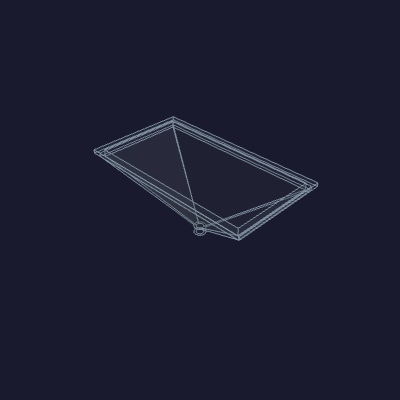
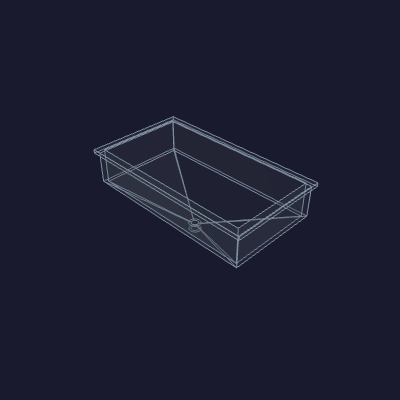
hopper-funnel: offset the neck −6 mm in X, deepen the straight chute to 30 mm
Two shape changes, brim and neck z held:

* The ramp foot and spout shift −6 mm in X (neck_dx), off the opening centre,
  so the ramp lofts asymmetrically from the centred mouth to an offset spout.
* The straight rectangular chute grows from 6 mm to 30 mm (chute_h): the brim
  top stays put while the ramp start drops to z=268.4, so a tall vertical-walled
  chute carries most of the depth and a shallow ramp necks the last bit down to
  the spout. Clears all placed content.

diff --git a/hardware/printed-parts/zone-c/hopper-funnel/hopper_funnel.py b/hardware/printed-parts/zone-c/hopper-funnel/hopper_funnel.py
@@ -1,17 +1,15 @@
 """Zone C hopper funnel — the removable dishwasher-safe silicone insert.
 
-A shallow wide funnel that drops into the top-wall opening to the right of the
-display (cut by ../../enclosure/enclosure/enclosure.py via `_hopper_hole`). Top
-to bottom:
+A wide funnel that drops into the top-wall opening to the right of the display
+(cut by ../../enclosure/enclosure/enclosure.py via `_hopper_hole`). Top to bottom:
 
   * a flat brim that overhangs the opening all around and rests on the enclosure
     top surface;
-  * a straight rectangular collar — vertical walls, no slope — that press-fits
-    into the opening, filling the 3 mm top wall;
-  * a ramp from that rectangular mouth down to a 1/4" round spout that hangs into
-    the Zone C funnel reserve, stopping one mm clear of the tallest content below
-    (the bib-gate tray) — so the drop is exactly the room the current packing
-    leaves.
+  * a tall straight rectangular chute — vertical walls, no slope — pressing the
+    3 mm top wall at its top and hanging on down into the reserve;
+  * a shallow ramp from the bottom of that chute down to a 1/4" round spout. The
+    spout is offset in −X and necks one mm above the tallest content below (the
+    bib-gate tray, read live), then a short straight tube carries the exit on down.
 
 The funnel shares the opening rectangle with the enclosure, so the collar always
 matches the hole. It is built in enclosure world coordinates (+X right, +Y back,
@@ -37,6 +35,8 @@ import enclosure as E
 brim_overhang = 3.0     # brim flange reach past the opening, all around
 brim_thickness = 3.0    # flange thickness, resting on the enclosure top
 collar_wall = 3.0       # straight press-fit collar wall (opening − bore)
+chute_h = 30.0          # straight rectangular chute height — brim top down to the ramp start
+neck_dx = -6.0          # neck (ramp foot + spout) shift in X off the opening center
 spout_id = 6.35         # 1/4" outlet bore
 spout_wall = 2.0        # spout wall at the tip
 spout_tube = 6.0       # straight spout tube below the ramp tip — its length sets
@@ -92,25 +92,27 @@ def build():
     bore_w, bore_d = w - 2.0 * collar_wall, d - 2.0 * collar_wall
     top_z = oz1 + brim_thickness                       # brim top = outermost point
     spout_or = spout_id / 2.0 + spout_wall
+    ncx = cx + neck_dx                                  # spout/neck, shifted in X
+    ramp_top_z = top_z - chute_h                        # straight chute bottom = ramp start
 
     # The ramp necks to the round spout one mm above the bib-gate tray (read live);
-    # a straight spout tube then carries the Ø6.35 exit straight down the clear
-    # column, centered on the opening.
+    # a straight spout tube then carries the Ø6.35 exit straight down past the neck.
     neck_z = _content_top(x0, x1, y0, y1) - 5
     end_z = neck_z - spout_tube
 
-    # Outer: brim flange, straight collar, ramp to the spout, straight spout tube.
+    # Outer: brim flange, a tall straight rectangular chute, a shallow ramp down to
+    # the −X-offset spout, straight spout tube.
     solid = (
         _box(w + 2.0 * brim_overhang, d + 2.0 * brim_overhang, oz1, top_z, cx, cy)
-        .fuse(_box(w, d, iz1, oz1, cx, cy))
-        .fuse(_loft_rc(w, d, cx, cy, iz1, spout_or, cx, cy, neck_z))
-        .fuse(_cyl(spout_or, neck_z, end_z, cx, cy))
+        .fuse(_box(w, d, ramp_top_z, oz1, cx, cy))
+        .fuse(_loft_rc(w, d, cx, cy, ramp_top_z, spout_or, ncx, cy, neck_z))
+        .fuse(_cyl(spout_or, neck_z, end_z, ncx, cy))
     )
     # Bore: the same chain, one wall in, open at the top and out through the tube.
     cavity = (
-        _box(bore_w, bore_d, iz1, top_z + 1.0, cx, cy)
-        .fuse(_loft_rc(bore_w, bore_d, cx, cy, iz1, spout_id / 2.0, cx, cy, neck_z))
-        .fuse(_cyl(spout_id / 2.0, neck_z, end_z - 1.0, cx, cy))
+        _box(bore_w, bore_d, ramp_top_z, top_z + 1.0, cx, cy)
+        .fuse(_loft_rc(bore_w, bore_d, cx, cy, ramp_top_z, spout_id / 2.0, ncx, cy, neck_z))
+        .fuse(_cyl(spout_id / 2.0, neck_z, end_z - 1.0, ncx, cy))
     )
     # Capacity filled to the brim rim: the cavity between the spout exit and brim top.
     fill = cavity.intersect(_box(600.0, 600.0, end_z, top_z, cx, cy)).Volume()
@@ -132,9 +134,10 @@ def main():
         _here.parent / "README.md",
         variables={
             "HOPPER_SPOUT_ID": f"{spout_id:g} mm",
+            "HOPPER_CHUTE": f"{chute_h:g} mm",
             "HOPPER_DROP": f"{drop:.0f} mm",
         },
-        expected_counts={"HOPPER_SPOUT_ID": 1, "HOPPER_DROP": 1},
+        expected_counts={"HOPPER_SPOUT_ID": 1, "HOPPER_CHUTE": 1, "HOPPER_DROP": 1},
     )
     print("-> README.md")
 

diff --git a/hardware/printed-parts/zone-c/hopper-funnel/README.md b/hardware/printed-parts/zone-c/hopper-funnel/README.md
@@ -7,21 +7,22 @@ beneath. Zone framing: [`../README.md`](/hardware/printed-parts/zone-c/README.md
 
 ## Shape
 
-A shallow wide funnel, built top to bottom in enclosure world coordinates so it
-drops straight into the opening:
+A wide funnel, built top to bottom in enclosure world coordinates so it drops
+straight into the opening:
 
 - **Brim.** A flat flange overhanging the opening 3 mm all around, resting on the
   enclosure top surface.
-- **Collar.** A straight rectangular section — vertical walls, no slope — that
-  press-fits into the opening and fills the 3 mm top wall. The brim + collar give
-  6 mm of straight rectangular wall pressing the opening sides.
-- **Ramp + spout.** Below the collar the bore ramps from the rectangular mouth
-  down to a round [6.35 mm](HOPPER_SPOUT_ID) spout (1/4", matching the pump
-  tubing), centered on the opening. The ramp necks one mm above the bib-gate tray
-  (read live), then a straight spout tube carries the exit down the clear column.
+- **Chute.** A tall straight rectangular section — vertical walls, no slope —
+  [30 mm](HOPPER_CHUTE) from the brim top down to where the ramp starts. Its top
+  press-fits the 3 mm top wall; the rest hangs down into the reserve as a straight
+  rectangular drop.
+- **Ramp + spout.** Below the chute a shallow ramp narrows to a round
+  [6.35 mm](HOPPER_SPOUT_ID) spout (1/4", matching the pump tubing), the spout
+  offset in −X off the opening center. The ramp necks one mm above the bib-gate
+  tray (read live), then a short straight spout tube carries the exit on down.
   Total drop [64 mm](HOPPER_DROP) below the brim.
 
-The collar footprint is taken from the enclosure's opening rectangle
+The chute footprint is taken from the enclosure's opening rectangle
 (`enclosure.py` `_hopper_hole`), so the funnel and hole always match.
 
 ## Regenerate
